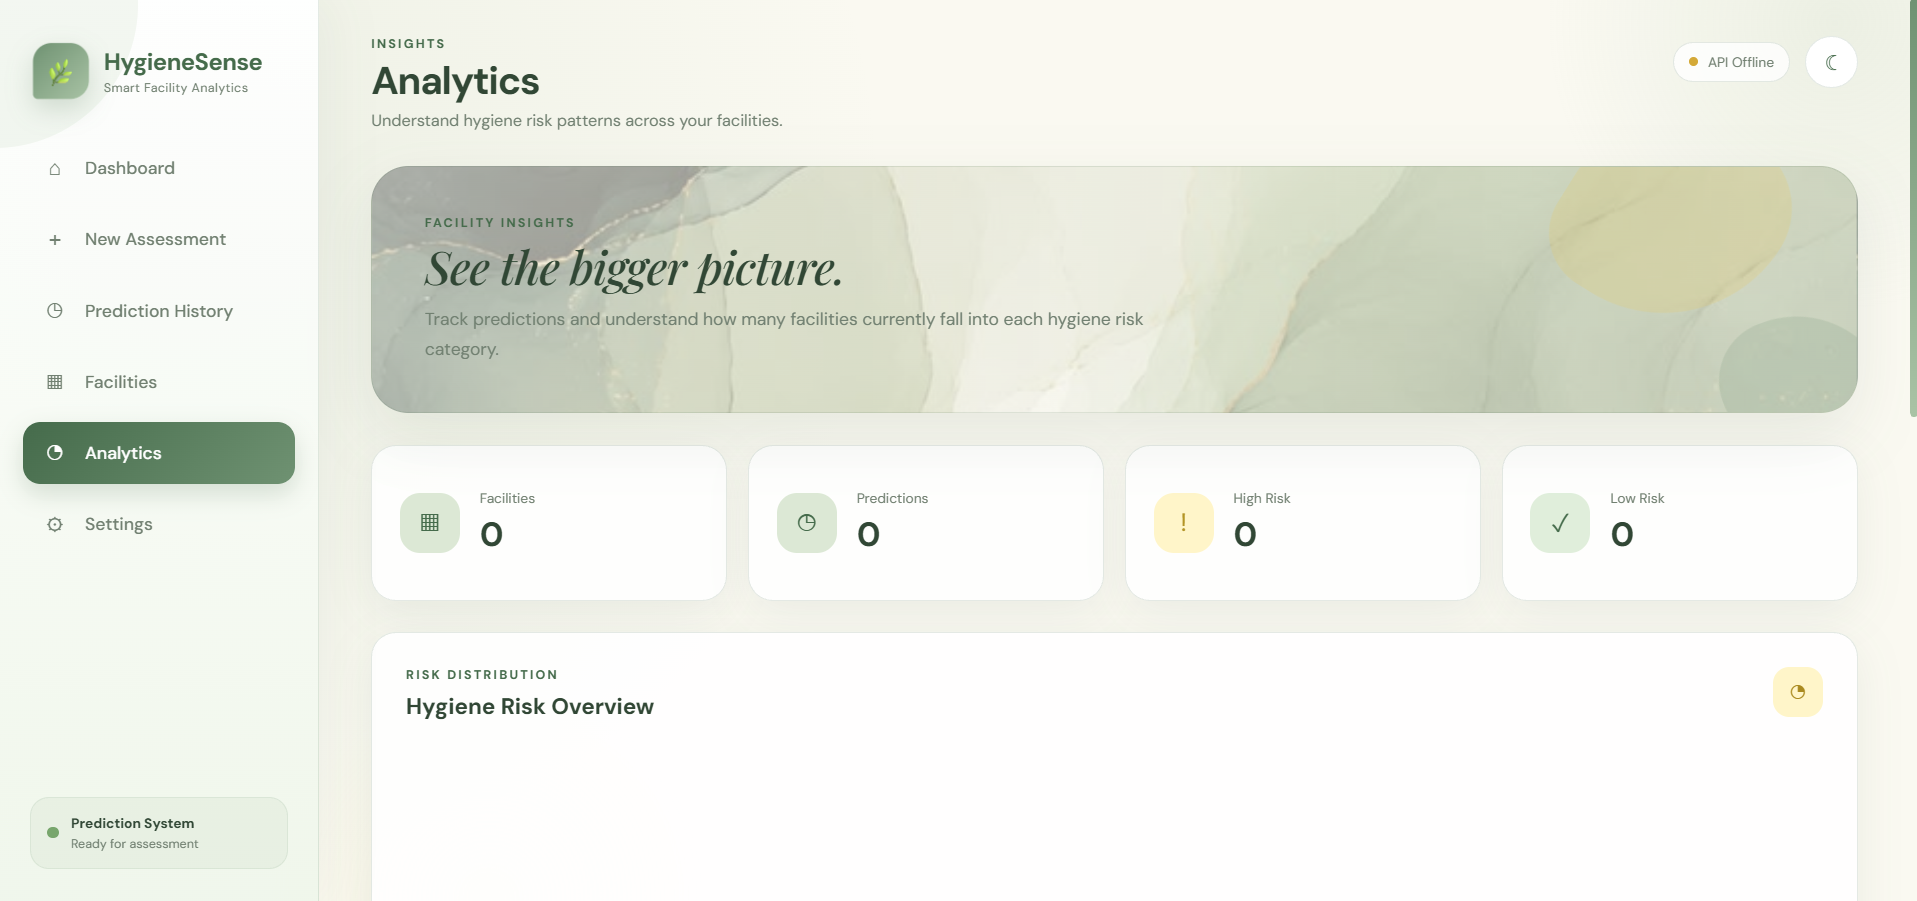
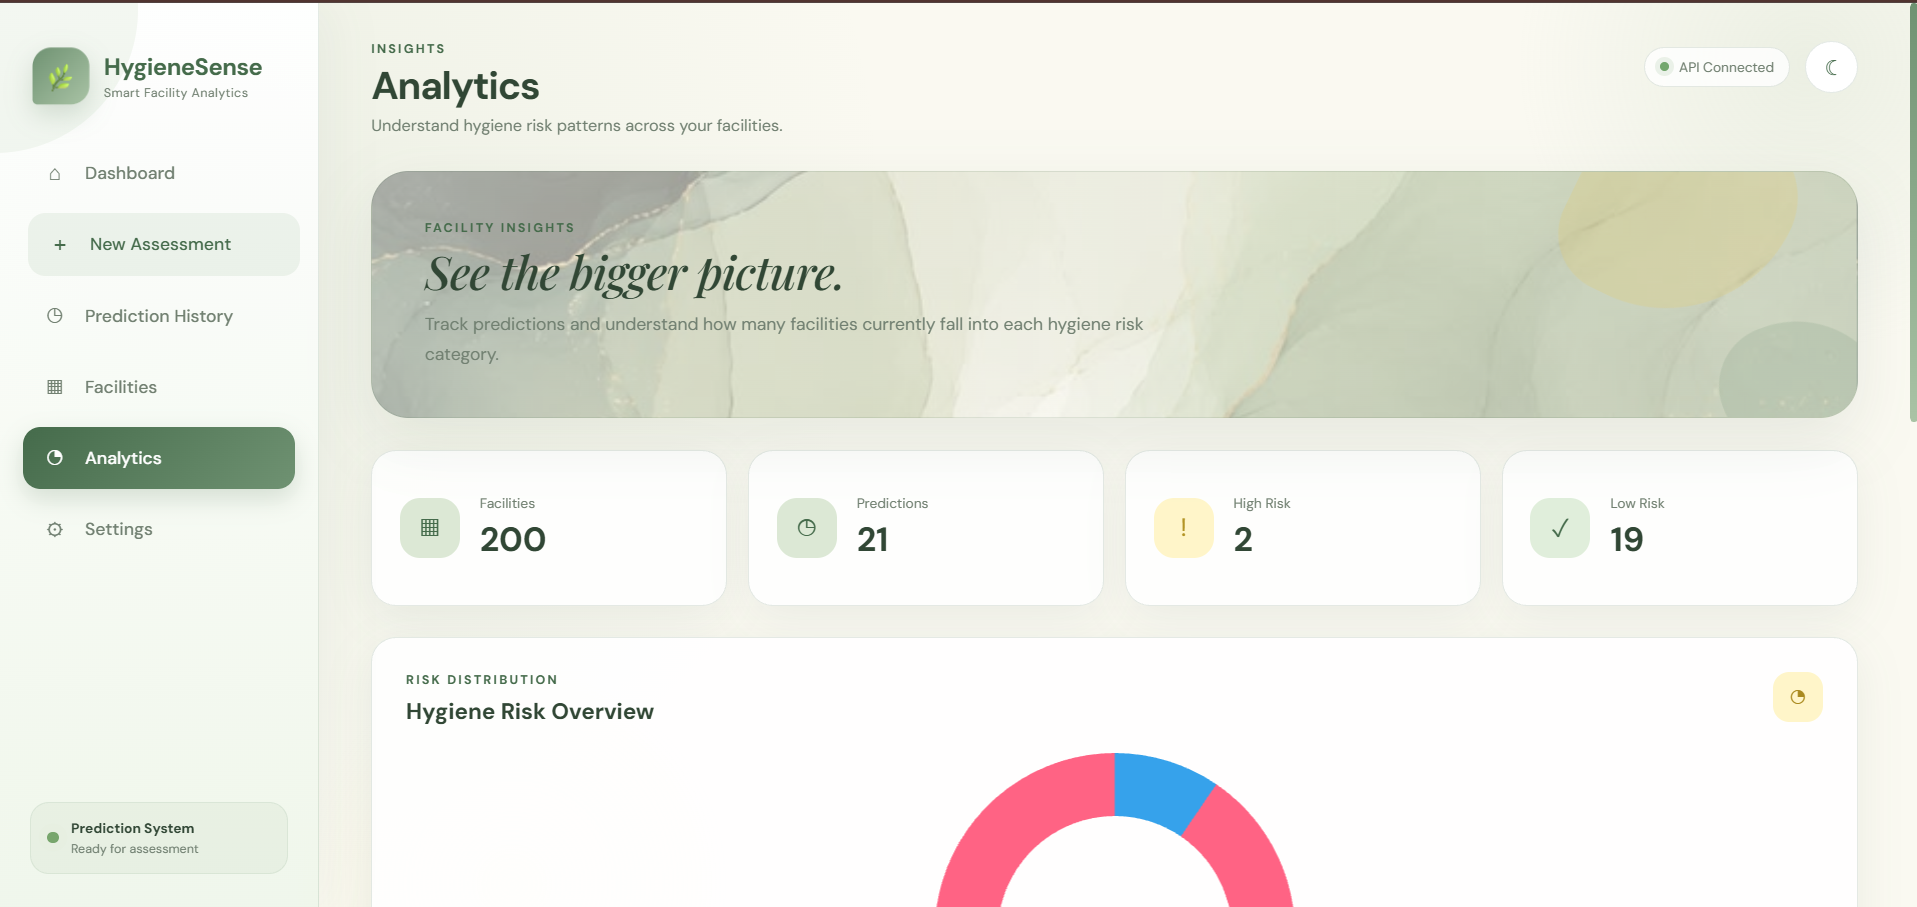
Complete Day 10 final project

diff --git a/day-10/final-project/frontend/app.js b/day-10/final-project/frontend/app.js
@@ -1,5 +1,5 @@
 const API_URL = "http://127.0.0.1:5001";
-
+let facilityDataset = [];
 
 // =====================================================
 // INITIALIZATION
@@ -10,7 +10,7 @@ document.addEventListener("DOMContentLoaded", () => {
     setupTheme();
     setupNavigation();
     checkAPIStatus();
-
+    loadDataset();
     loadDashboard();
     setupAssessment();
     showPredictionHistory();
@@ -185,6 +185,43 @@ async function checkAPIStatus() {
 
 }
 
+// =====================================================
+// DATASET
+// =====================================================
+
+async function loadDataset() {
+
+    try {
+
+        const response =
+            await fetch(`${API_URL}/dataset`);
+
+        if (!response.ok) {
+            throw new Error("Unable to load dataset");
+        }
+
+        const result =
+            await response.json();
+
+        facilityDataset =
+            result.records || [];
+
+        console.log(
+            "Dataset loaded:",
+            facilityDataset.length,
+            "records"
+        );
+
+    } catch (error) {
+
+        console.error(
+            "Dataset loading error:",
+            error
+        );
+
+    }
+
+}
 
 // =====================================================
 // DASHBOARD
@@ -789,7 +826,6 @@ async function makePrediction() {
             result
         );
 
-
     } catch (error) {
 
         console.error(
@@ -962,12 +998,17 @@ async function savePrediction(
 
     } catch (error) {
 
-        console.error(
-            "Saving prediction failed:",
-            error
-        );
+    console.error(
+        "Saving prediction failed:",
+        error
+    );
 
-    }
+    alert(
+        `Saving prediction failed: ${error.message}`
+    );
+
+    throw error;
+}
 
 }
 

diff --git a/day-10/final-project/frontend/styles.css b/day-10/final-project/frontend/styles.css
@@ -3312,3 +3312,17 @@ body.dark .footer {
     }
 
 }
+/* Prediction result typography */
+#predictionText {
+    font-size: 42px;
+    font-weight: 700;
+    line-height: 1.1;
+    margin: 8px 0;
+}
+
+#confidenceText {
+    display: block;
+    font-size: 28px;
+    font-weight: 700;
+    margin-top: 8px;
+}

diff --git a/day-10/final-project/frontend/assessment.html b/day-10/final-project/frontend/assessment.html
@@ -422,8 +422,7 @@
 
         <section
             class="result-card"
-            id="result"
-            style="display: none;"
+            id="result";"
         >
 
             <span class="eyebrow">

diff --git a/day-10/final-project/database/init_db.py b/day-10/final-project/database/init_db.py
@@ -1,9 +1,17 @@
+import csv
 import mysql.connector
 from pathlib import Path
 
 
 BASE_DIR = Path(__file__).resolve().parent
 SCHEMA_FILE = BASE_DIR / "schema.sql"
+
+DATASET_FILE = (
+    BASE_DIR.parent
+    / "ml"
+    / "dataset"
+    / "cleaned_facility_data.csv"
+)
 
 
 DB_CONFIG = {
@@ -17,13 +25,32 @@ DB_CONFIG = {
 DATABASE_NAME = "hygiene_prediction_db"
 
 
-FACILITIES = [
-    ("FAC-1001", "North Zone"),
-    ("FAC-1002", "South Zone"),
-    ("FAC-1003", "East Zone"),
-    ("FAC-1004", "West Zone"),
-    ("FAC-1005", "Central Zone")
-]
+def load_facilities_from_csv():
+
+    facilities = []
+
+    with open(
+        DATASET_FILE,
+        "r",
+        encoding="utf-8"
+    ) as file:
+
+        reader = csv.DictReader(file)
+
+        for row in reader:
+
+            facility_id = row["facility_id"].strip()
+            location = row["location"].strip()
+
+            if not any(
+                existing[0] == facility_id
+                for existing in facilities
+            ):
+                facilities.append(
+                    (facility_id, location)
+                )
+
+    return facilities
 
 
 def initialize_database():
@@ -63,17 +90,30 @@ def initialize_database():
     ]
 
     for statement in statements:
-
         cursor.execute(statement)
 
-    # Add sample facilities
+    # Load real facilities from CSV
+    print("Loading facilities from dataset...")
+
+    facilities = load_facilities_from_csv()
+
+    print(
+        f"Found {len(facilities)} facilities in dataset."
+    )
+
+    # Remove old sample facilities
+    cursor.execute(
+        "DELETE FROM facilities"
+    )
+
+    # Insert real dataset facilities
     cursor.executemany(
         """
-        INSERT IGNORE INTO facilities
+        INSERT INTO facilities
         (facility_id, location)
         VALUES (%s, %s)
         """,
-        FACILITIES
+        facilities
     )
 
     connection.commit()

diff --git a/day-10/final-project/backend/app.py b/day-10/final-project/backend/app.py
@@ -13,6 +13,7 @@ CORS(app)
 BASE_DIR = Path(__file__).resolve().parent.parent
 
 MODEL_DIR = BASE_DIR / "ml" / "models"
+DATASET_FILE = BASE_DIR / "ml" / "dataset" / "cleaned_facility_data.csv"
 
 
 FEATURES = [
@@ -87,7 +88,25 @@ def get_facilities():
         return jsonify({
             "error": str(error)
         }), 500
+@app.route("/dataset", methods=["GET"])
+def get_dataset():
 
+    try:
+        data = pd.read_csv(DATASET_FILE)
+
+        data = data.fillna("")
+
+        return jsonify({
+            "total_records": len(data),
+            "columns": list(data.columns),
+            "records": data.to_dict(orient="records")
+        })
+
+    except Exception as error:
+
+        return jsonify({
+            "error": str(error)
+        }), 500
 
 @app.route("/predict", methods=["POST"])
 def predict():
